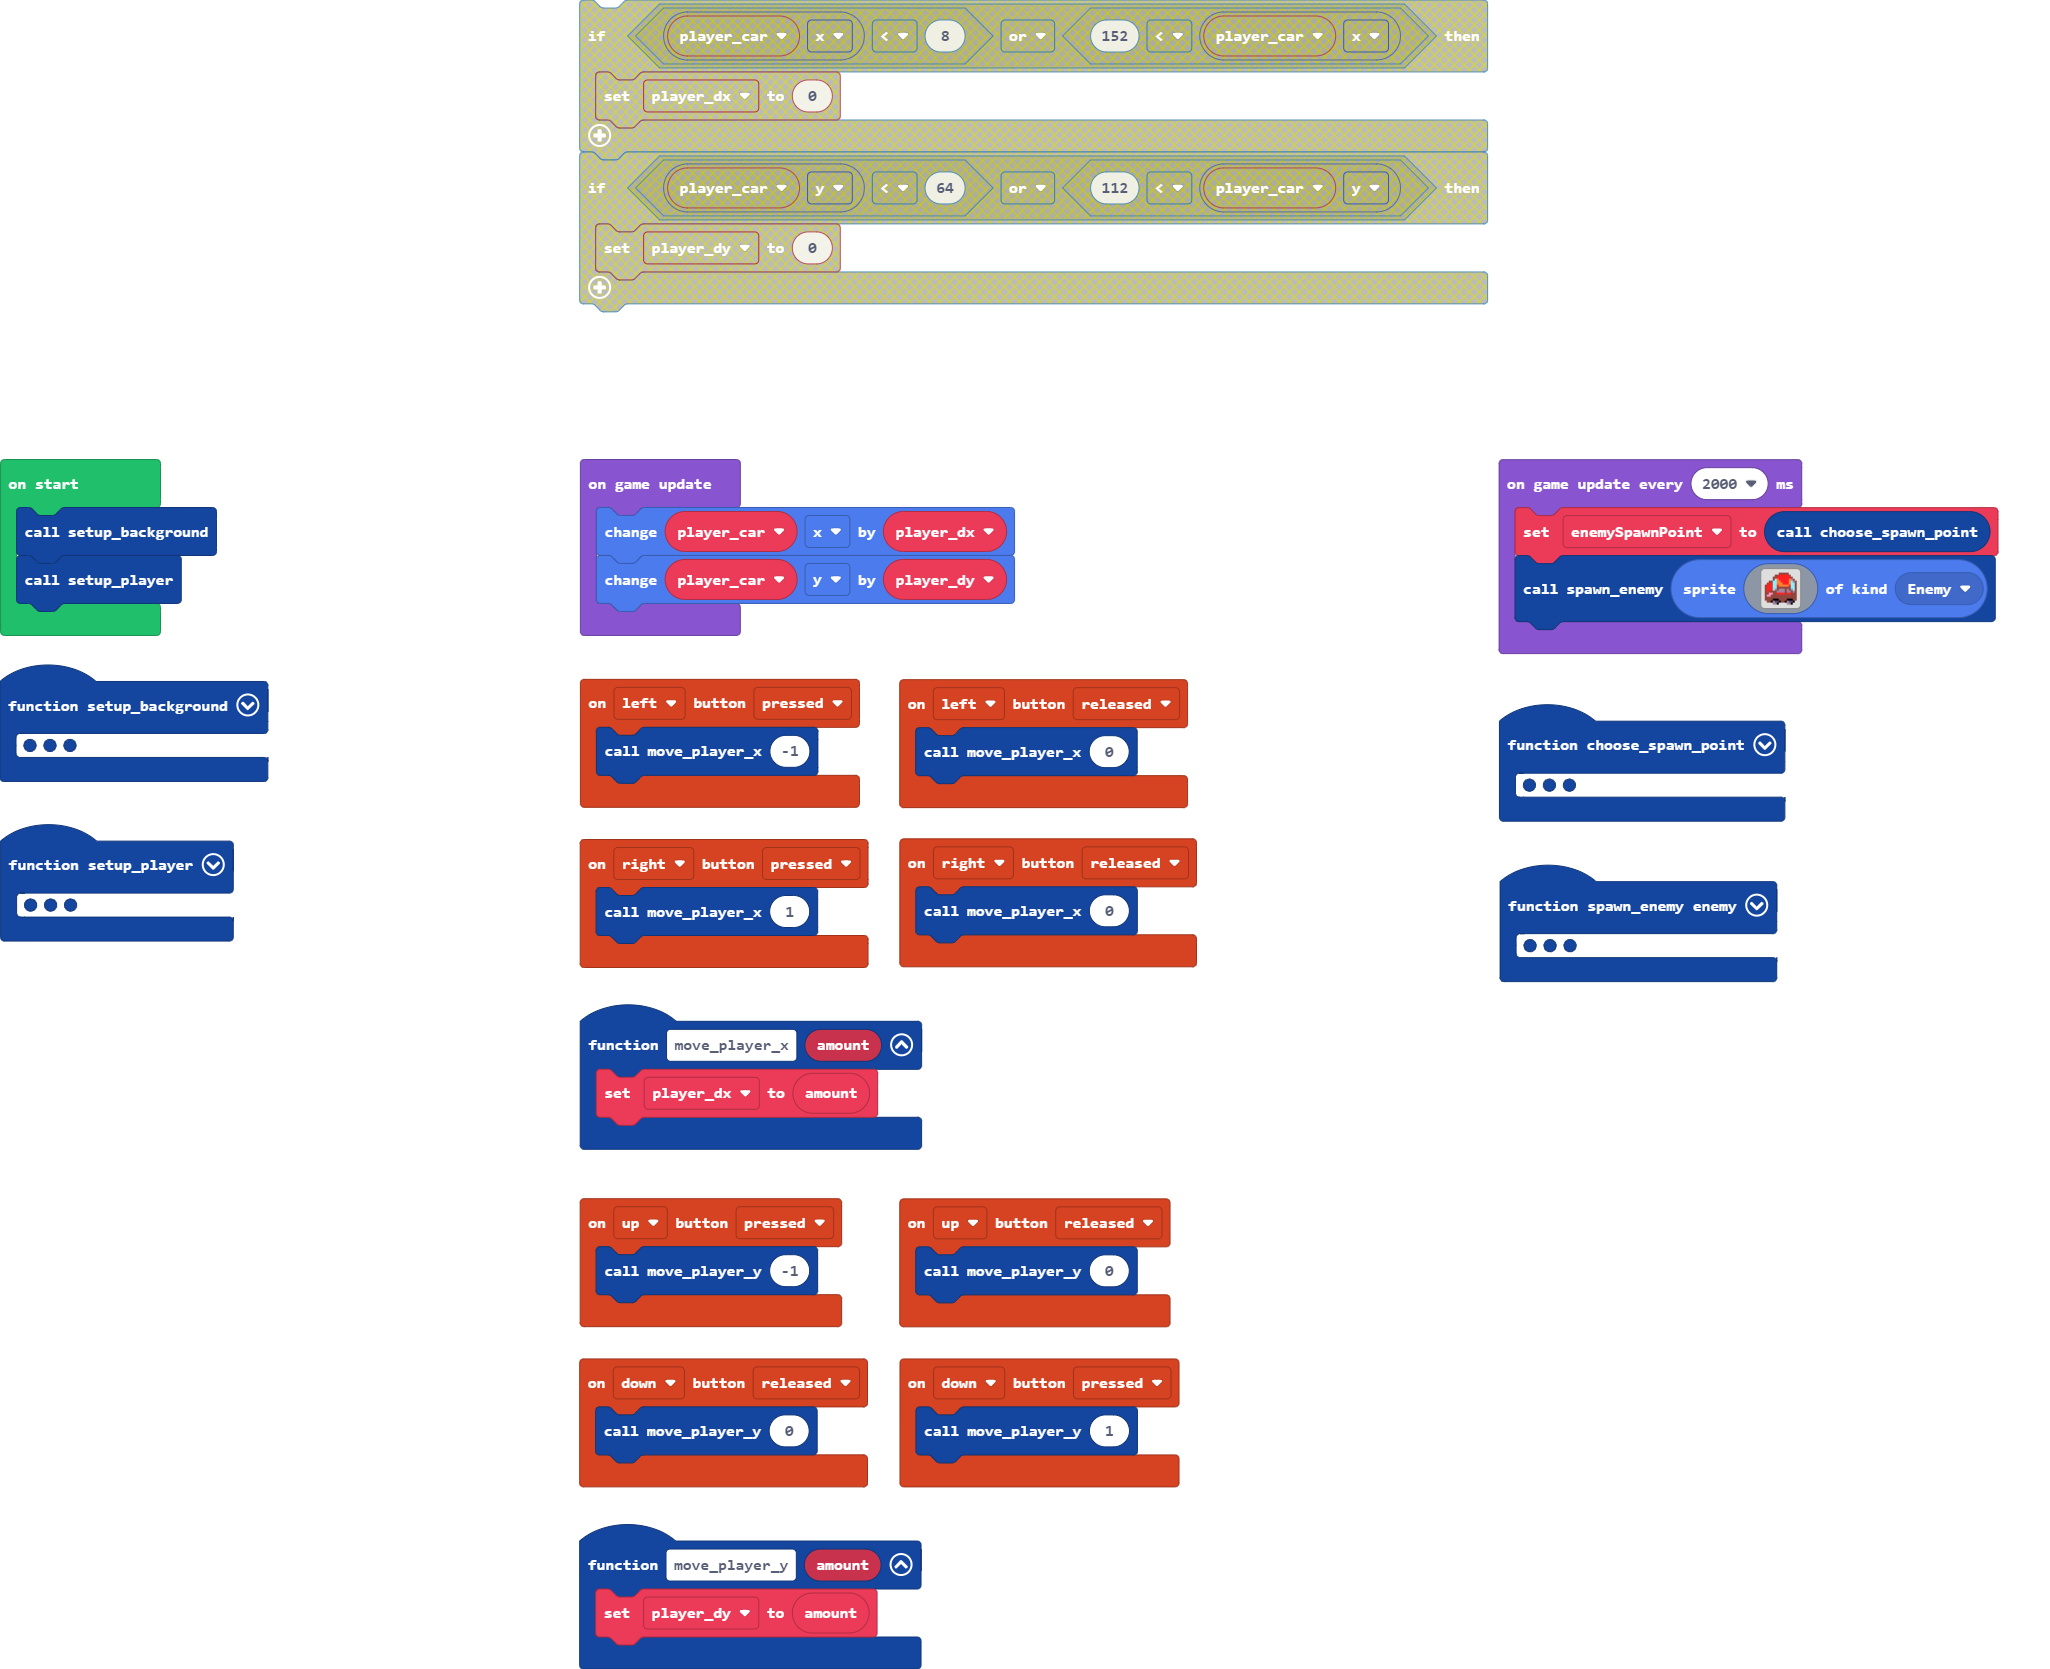
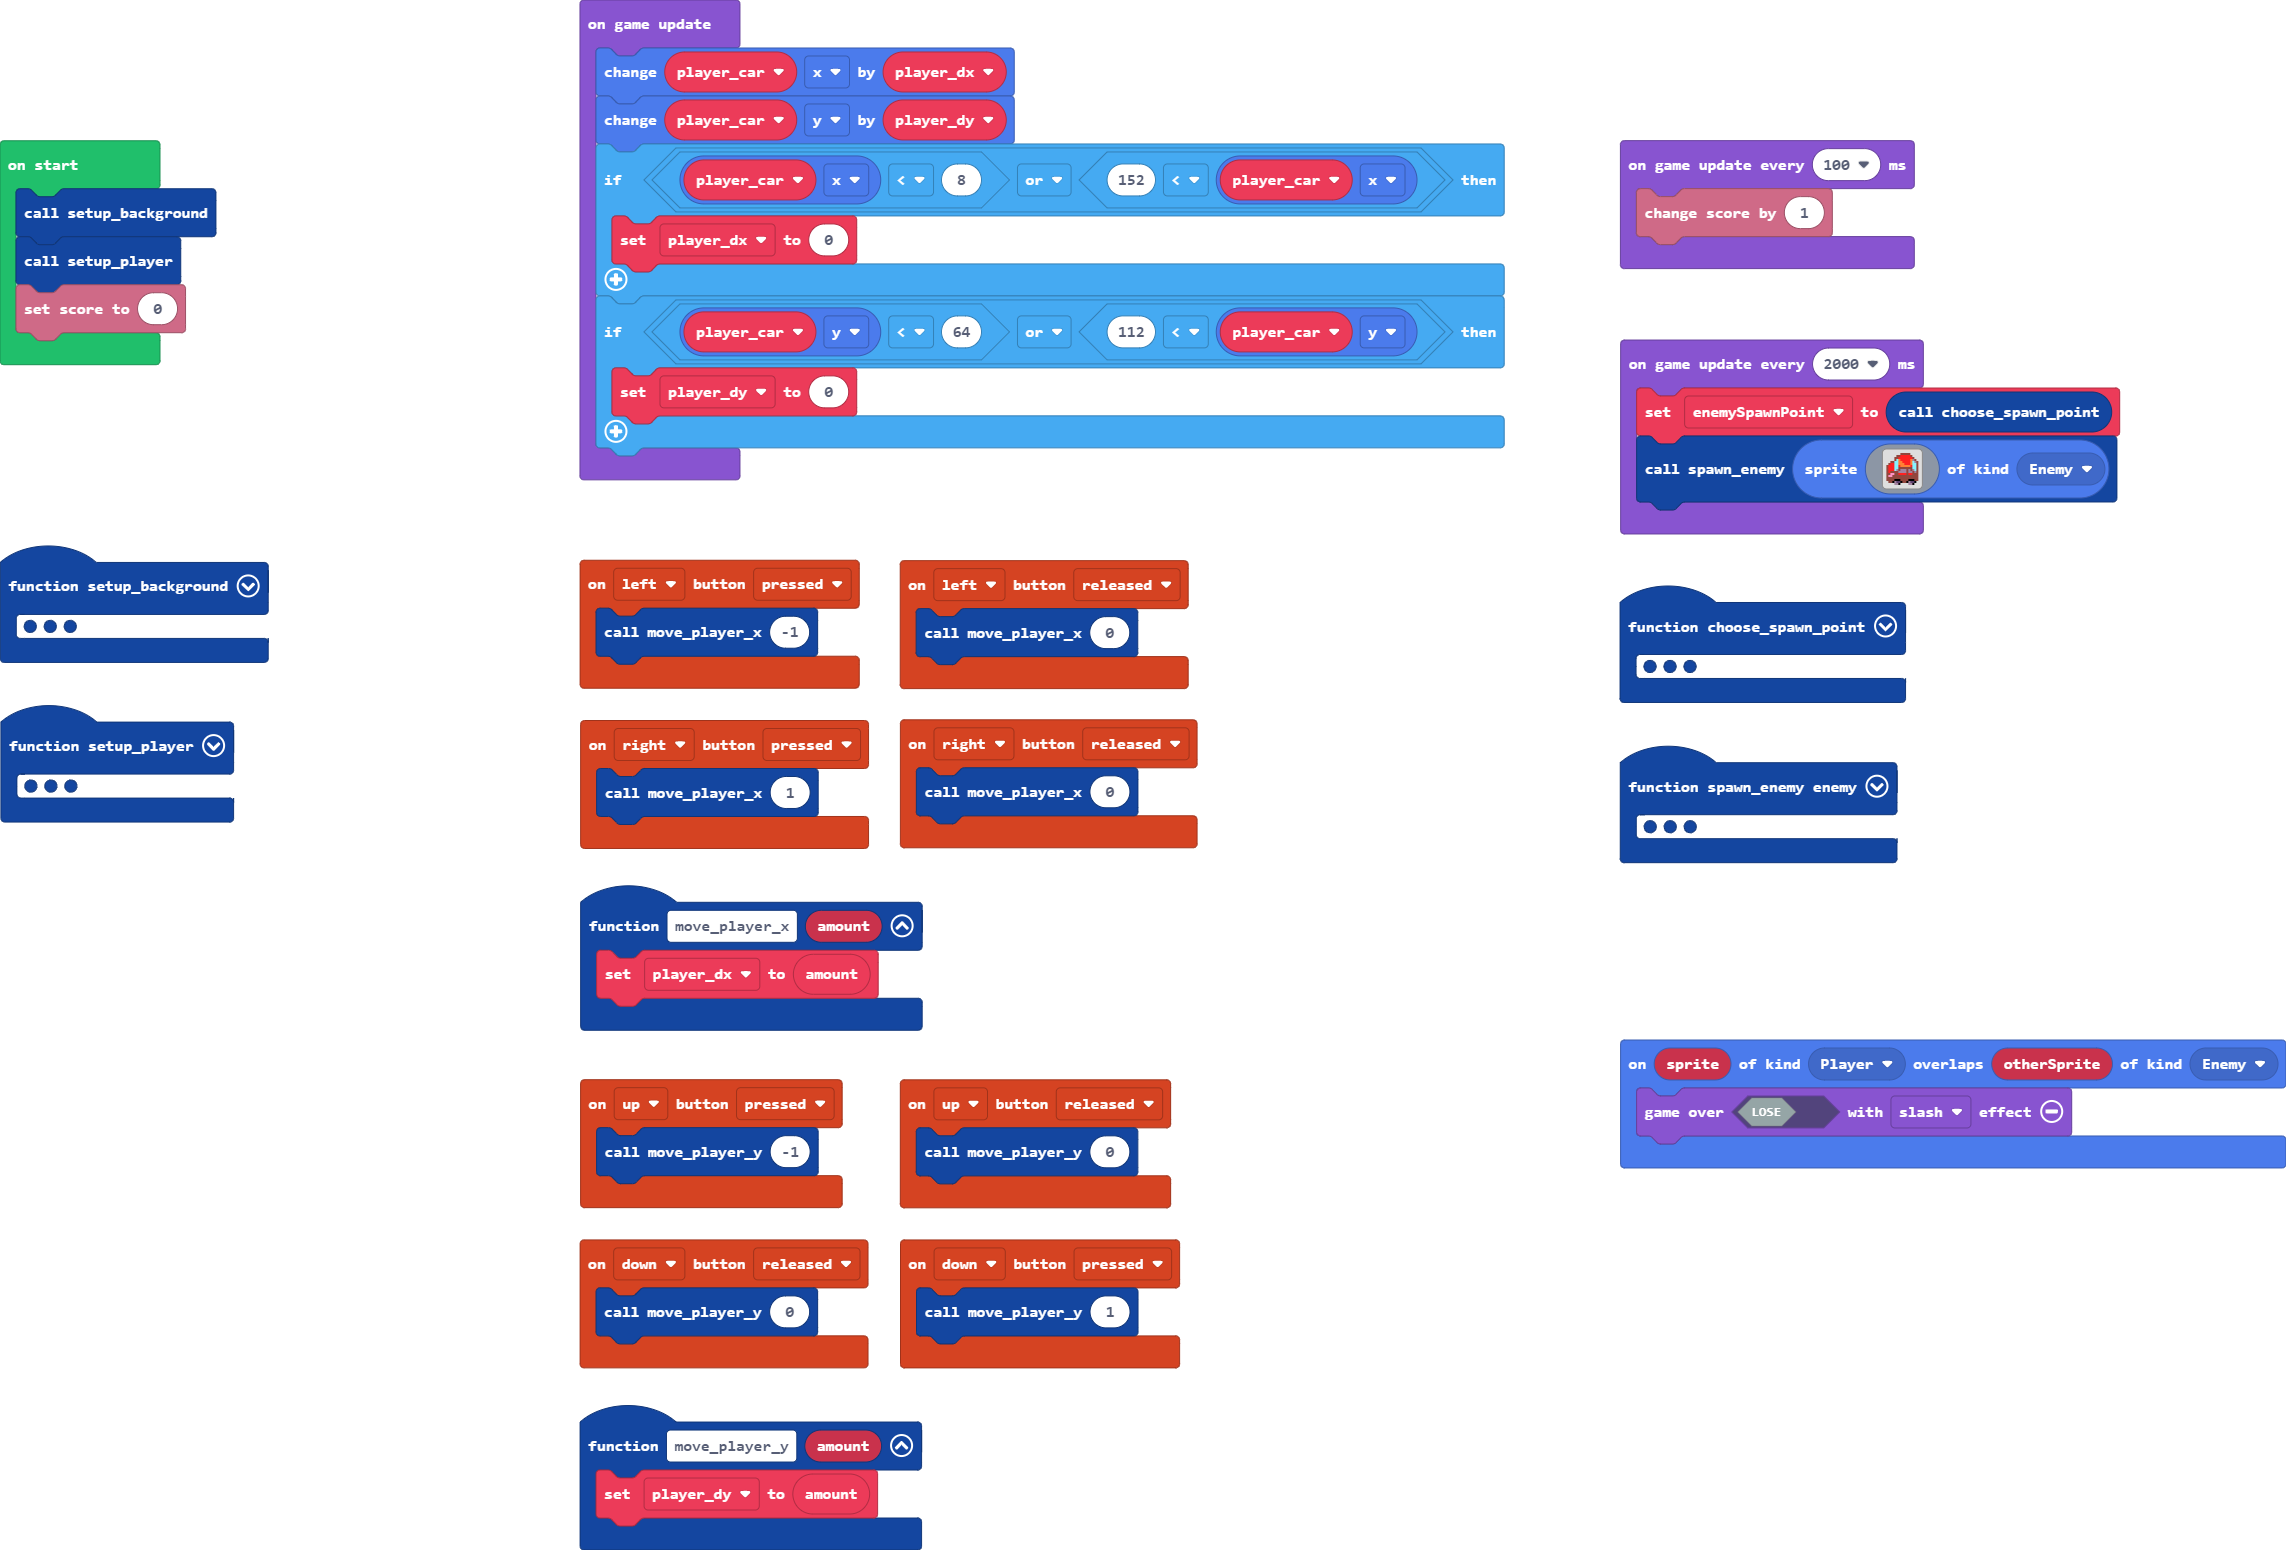
Game over and score tracking

diff --git a/main.ts b/main.ts
@@ -136,6 +136,9 @@ function spawn_enemy (enemy: Sprite) {
     true
     )
 }
+sprites.onOverlap(SpriteKind.Player, SpriteKind.Enemy, function (sprite, otherSprite) {
+    game.over(false, effects.slash)
+})
 let enemySpawnPoint = 0
 let player_dx = 0
 let spawnPoint = 0
@@ -144,9 +147,16 @@ let player_car: Sprite = null
 let player_dy = 0
 setup_background()
 setup_player()
+info.setScore(0)
 game.onUpdate(function () {
     player_car.x += player_dx
     player_car.y += player_dy
+    if (player_car.x < 8 || 152 < player_car.x) {
+        player_dx = 0
+    }
+    if (player_car.y < 64 || 112 < player_car.y) {
+        player_dy = 0
+    }
 })
 game.onUpdateInterval(2000, function () {
     enemySpawnPoint = choose_spawn_point()
@@ -168,4 +178,7 @@ game.onUpdateInterval(2000, function () {
         . e e f b c c f e e f b c c f . 
         . . . . b b f . . . . b b f . . 
         `, SpriteKind.Enemy))
+})
+game.onUpdateInterval(100, function () {
+    info.changeScoreBy(1)
 })
